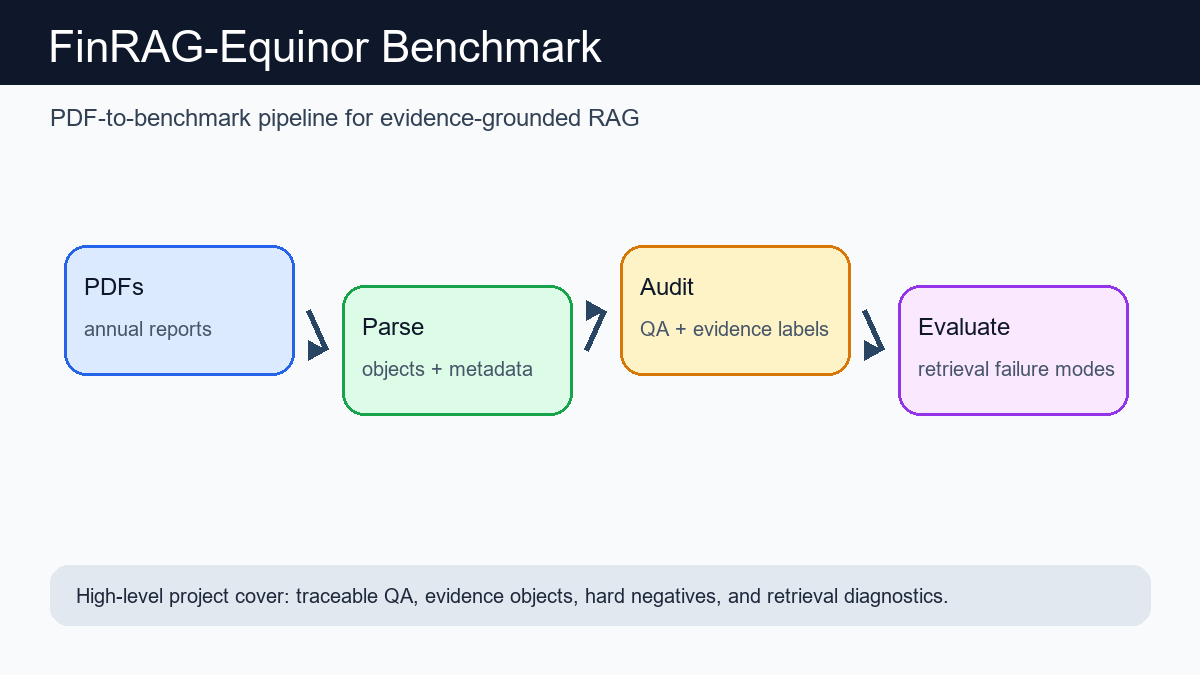
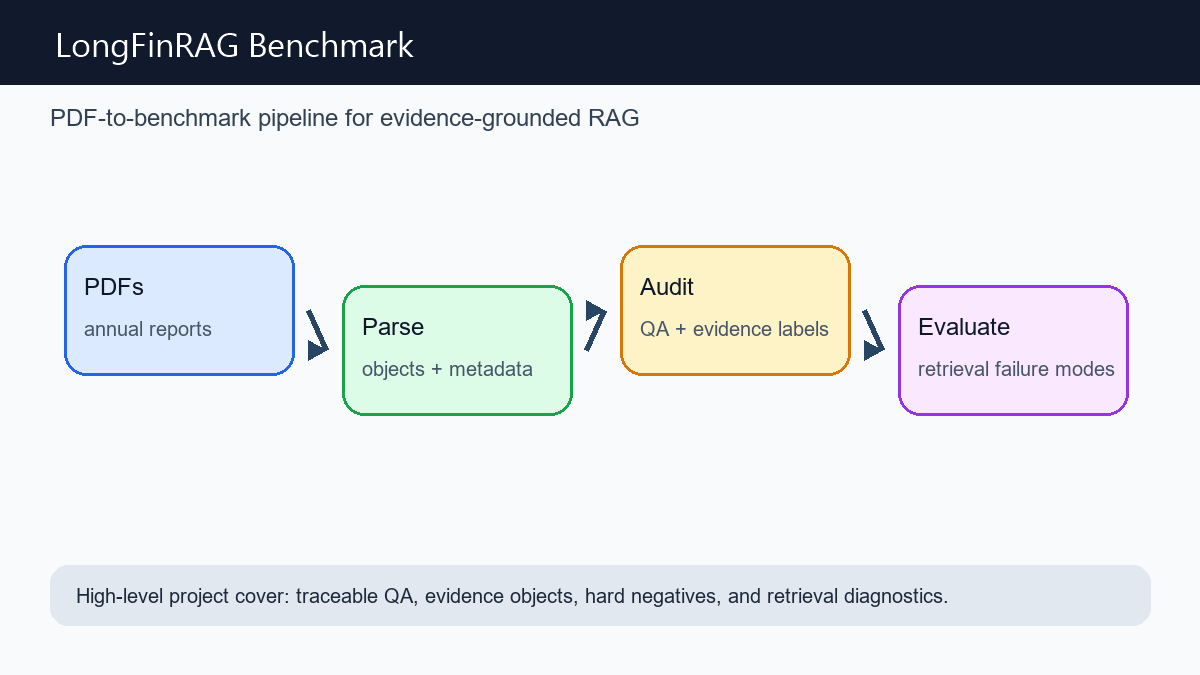
Rename FinRAG benchmark to LongFinRAG

Changed region(s): [[0.0308, 0.0311, 0.5242, 0.0933]]

diff --git a/config/projects.ts b/config/projects.ts
@@ -438,7 +438,7 @@ export const Projects: ProjectInterface[] = [
   {
     id: "finrag-equinor",
     companyName:
-      "FinRAG-Equinor: A Reliability-Audited Benchmark for Evidence Localization in Longitudinal Annual Reports",
+      "LongFinRAG: A Benchmark for Finding the Right Evidence in Annual Reports",
     type: "Research",
     category: [
       "Research",
@@ -476,7 +476,7 @@ export const Projects: ProjectInterface[] = [
     ],
     descriptionDetails: {
       paragraphs: [
-        "FinRAG-Equinor is a reliability-audited benchmark for evidence-grounded RAG on long annual reports. It is built from 15 Equinor/Statoil annual reports (2010–2024) and includes 720 QA items with traceable report-, page-, and object-level evidence.",
+        "LongFinRAG is a reliability-audited benchmark for evidence-grounded RAG on long annual reports. It is built from 15 Equinor/Statoil annual reports (2010–2024) and includes 720 QA items with traceable report-, page-, and object-level evidence.",
         "The benchmark evaluates whether RAG systems can identify the right report, locate the relevant page, and find the exact evidence needed to answer each question.",
         "As the first author and experimental lead, I led the design and implementation of the benchmark and retrieval evaluation pipeline, from evidence construction and QA development to systematic evaluation of sparse, dense, hybrid, hierarchical, and reranked retrieval methods.",
       ],

diff --git a/config/publications.ts b/config/publications.ts
@@ -123,7 +123,7 @@ export const publications: PublicationInterface[] = [
   },
   {
     title:
-      "FinRAG-Equinor: A Reliability-Audited Benchmark for Evidence Localization in Longitudinal Annual Reports",
+      "LongFinRAG: A Benchmark for Finding the Right Evidence in Annual Reports",
     authors: "Xiaojing Yang, Zhihan Li, Meriem Beloucif",
     status: "In Preparation",
     venue: "COLING 2027 via ACL Rolling Review (ARR)",

diff --git a/app/(root)/projects/[projectId]/page.tsx b/app/(root)/projects/[projectId]/page.tsx
@@ -27,7 +27,7 @@ interface ProjectPageProps {
 
 const finragMetadata = {
   title:
-    "FinRAG-Equinor: A Reliability-Audited Benchmark for Evidence Localization in Longitudinal Annual Reports",
+    "LongFinRAG: A Benchmark for Finding the Right Evidence in Annual Reports",
   description:
     "A 720-question benchmark for report-, page-, object-, and multi-hop evidence retrieval over 15 annual reports.",
 };
